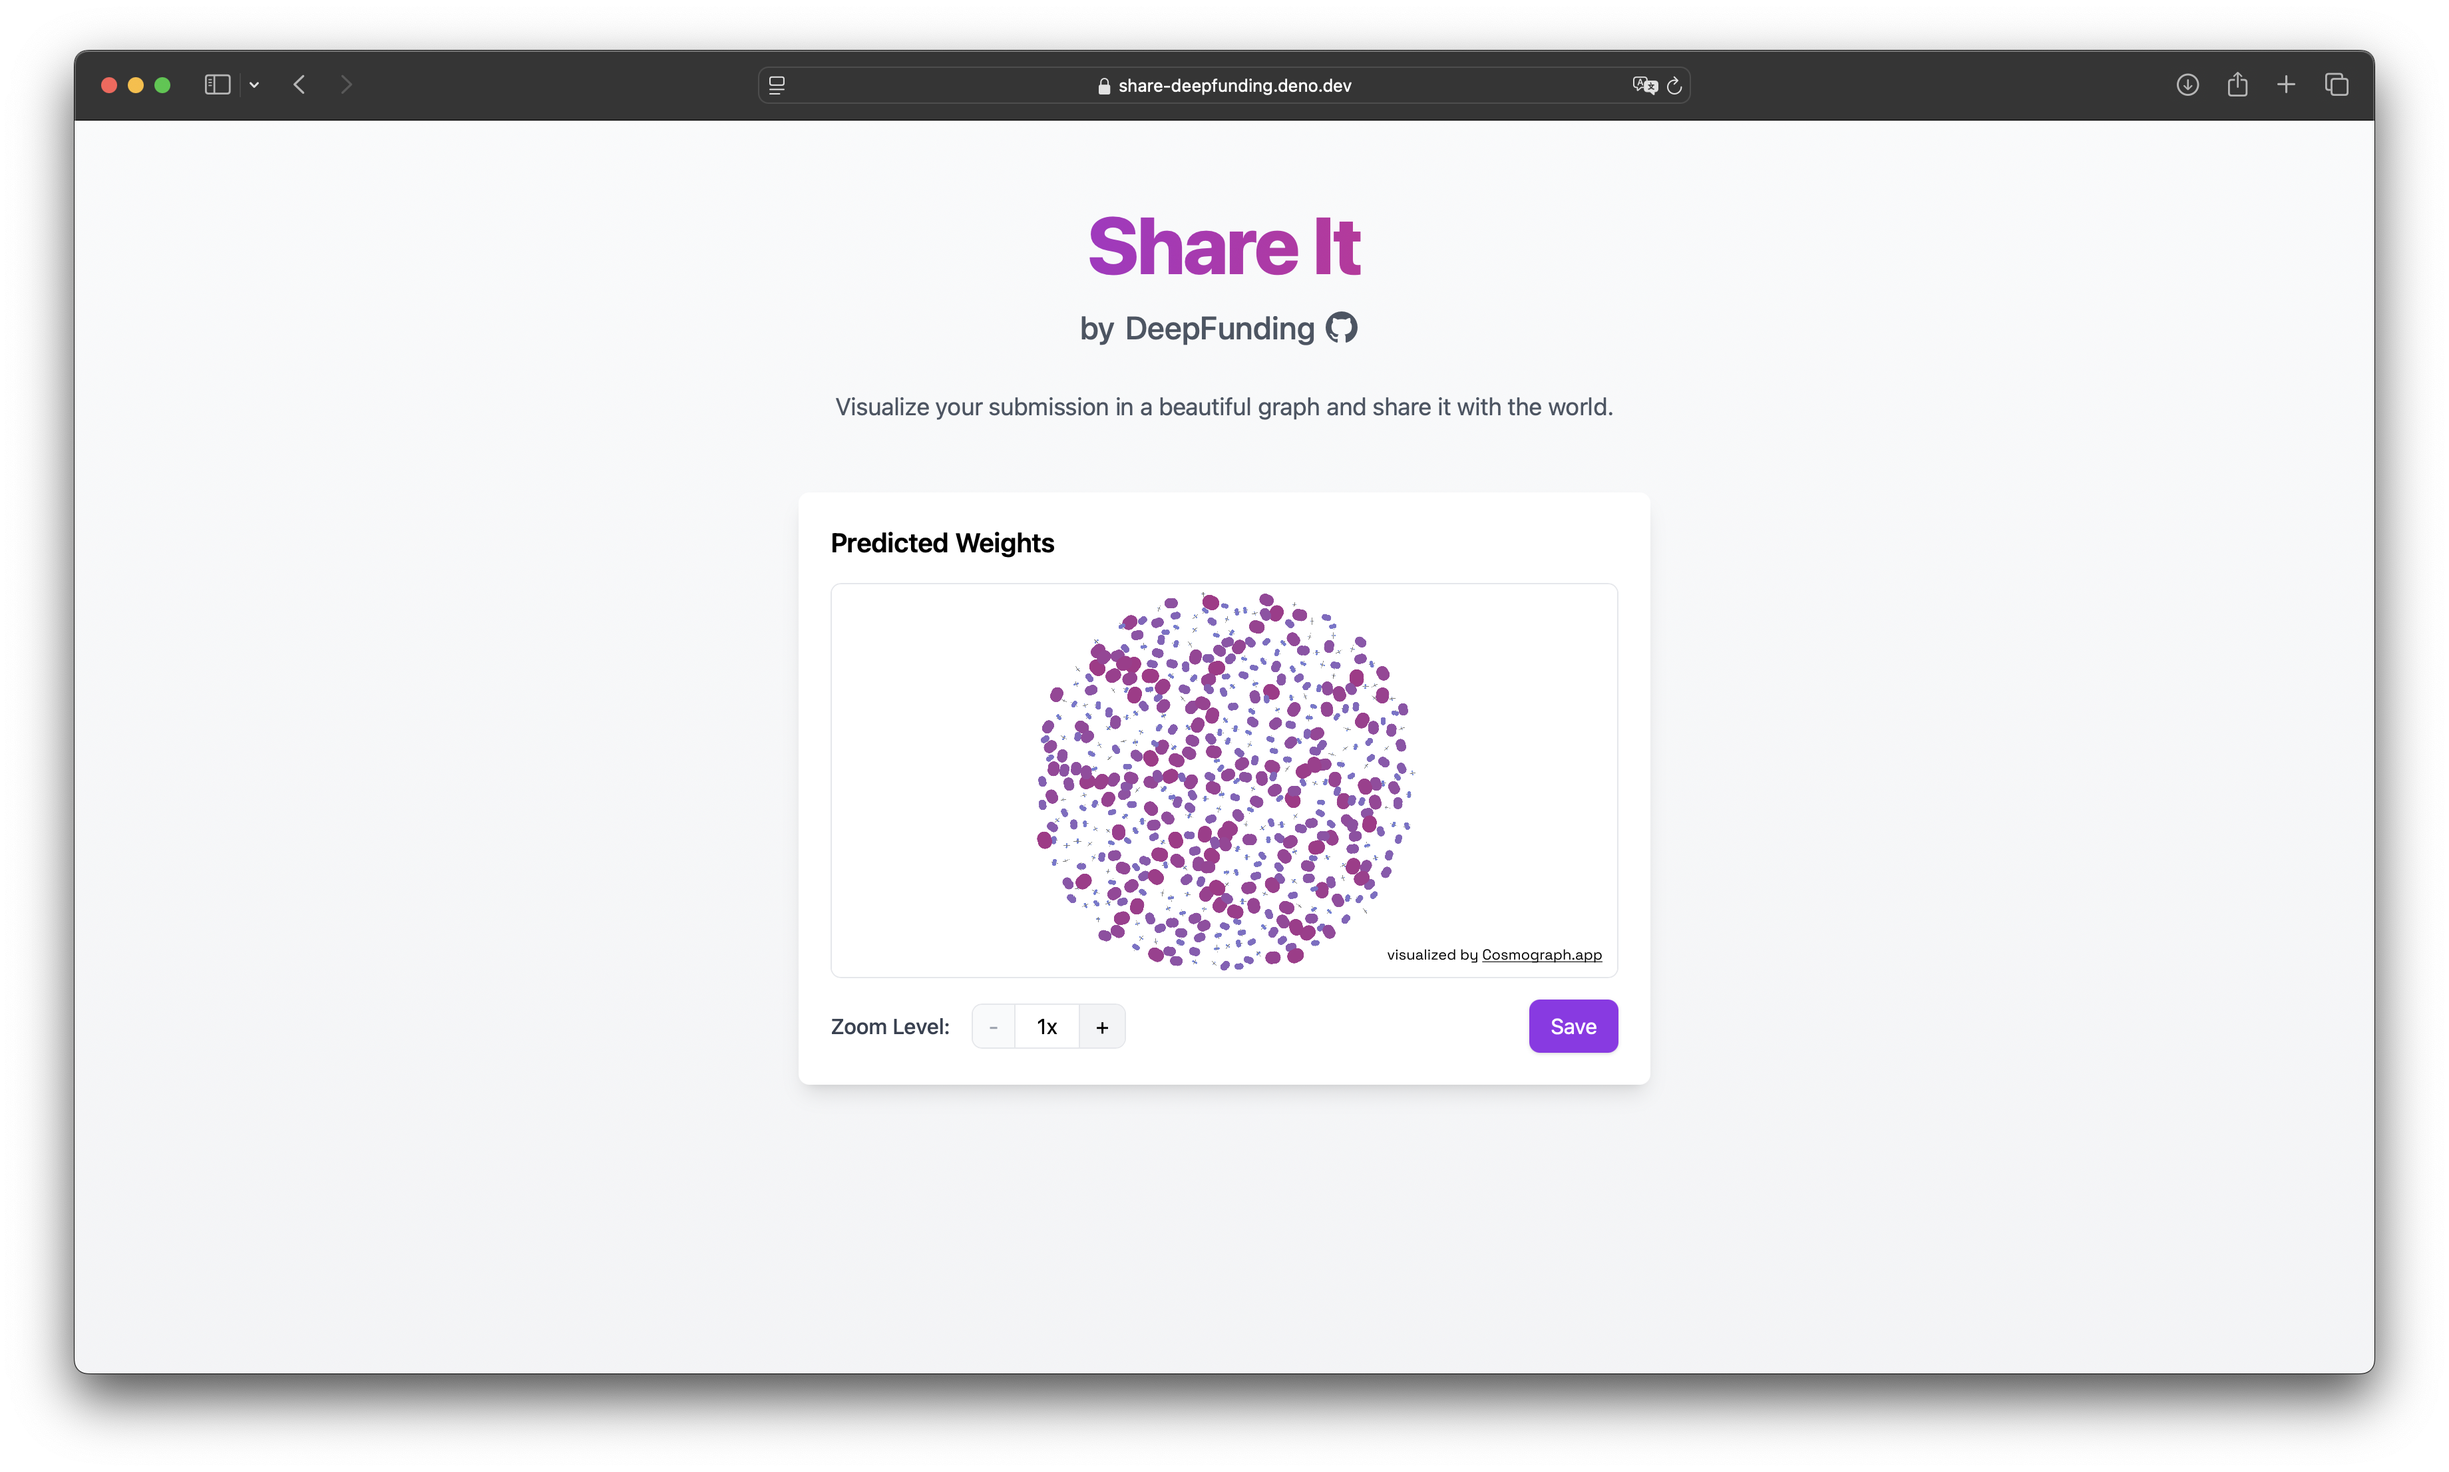
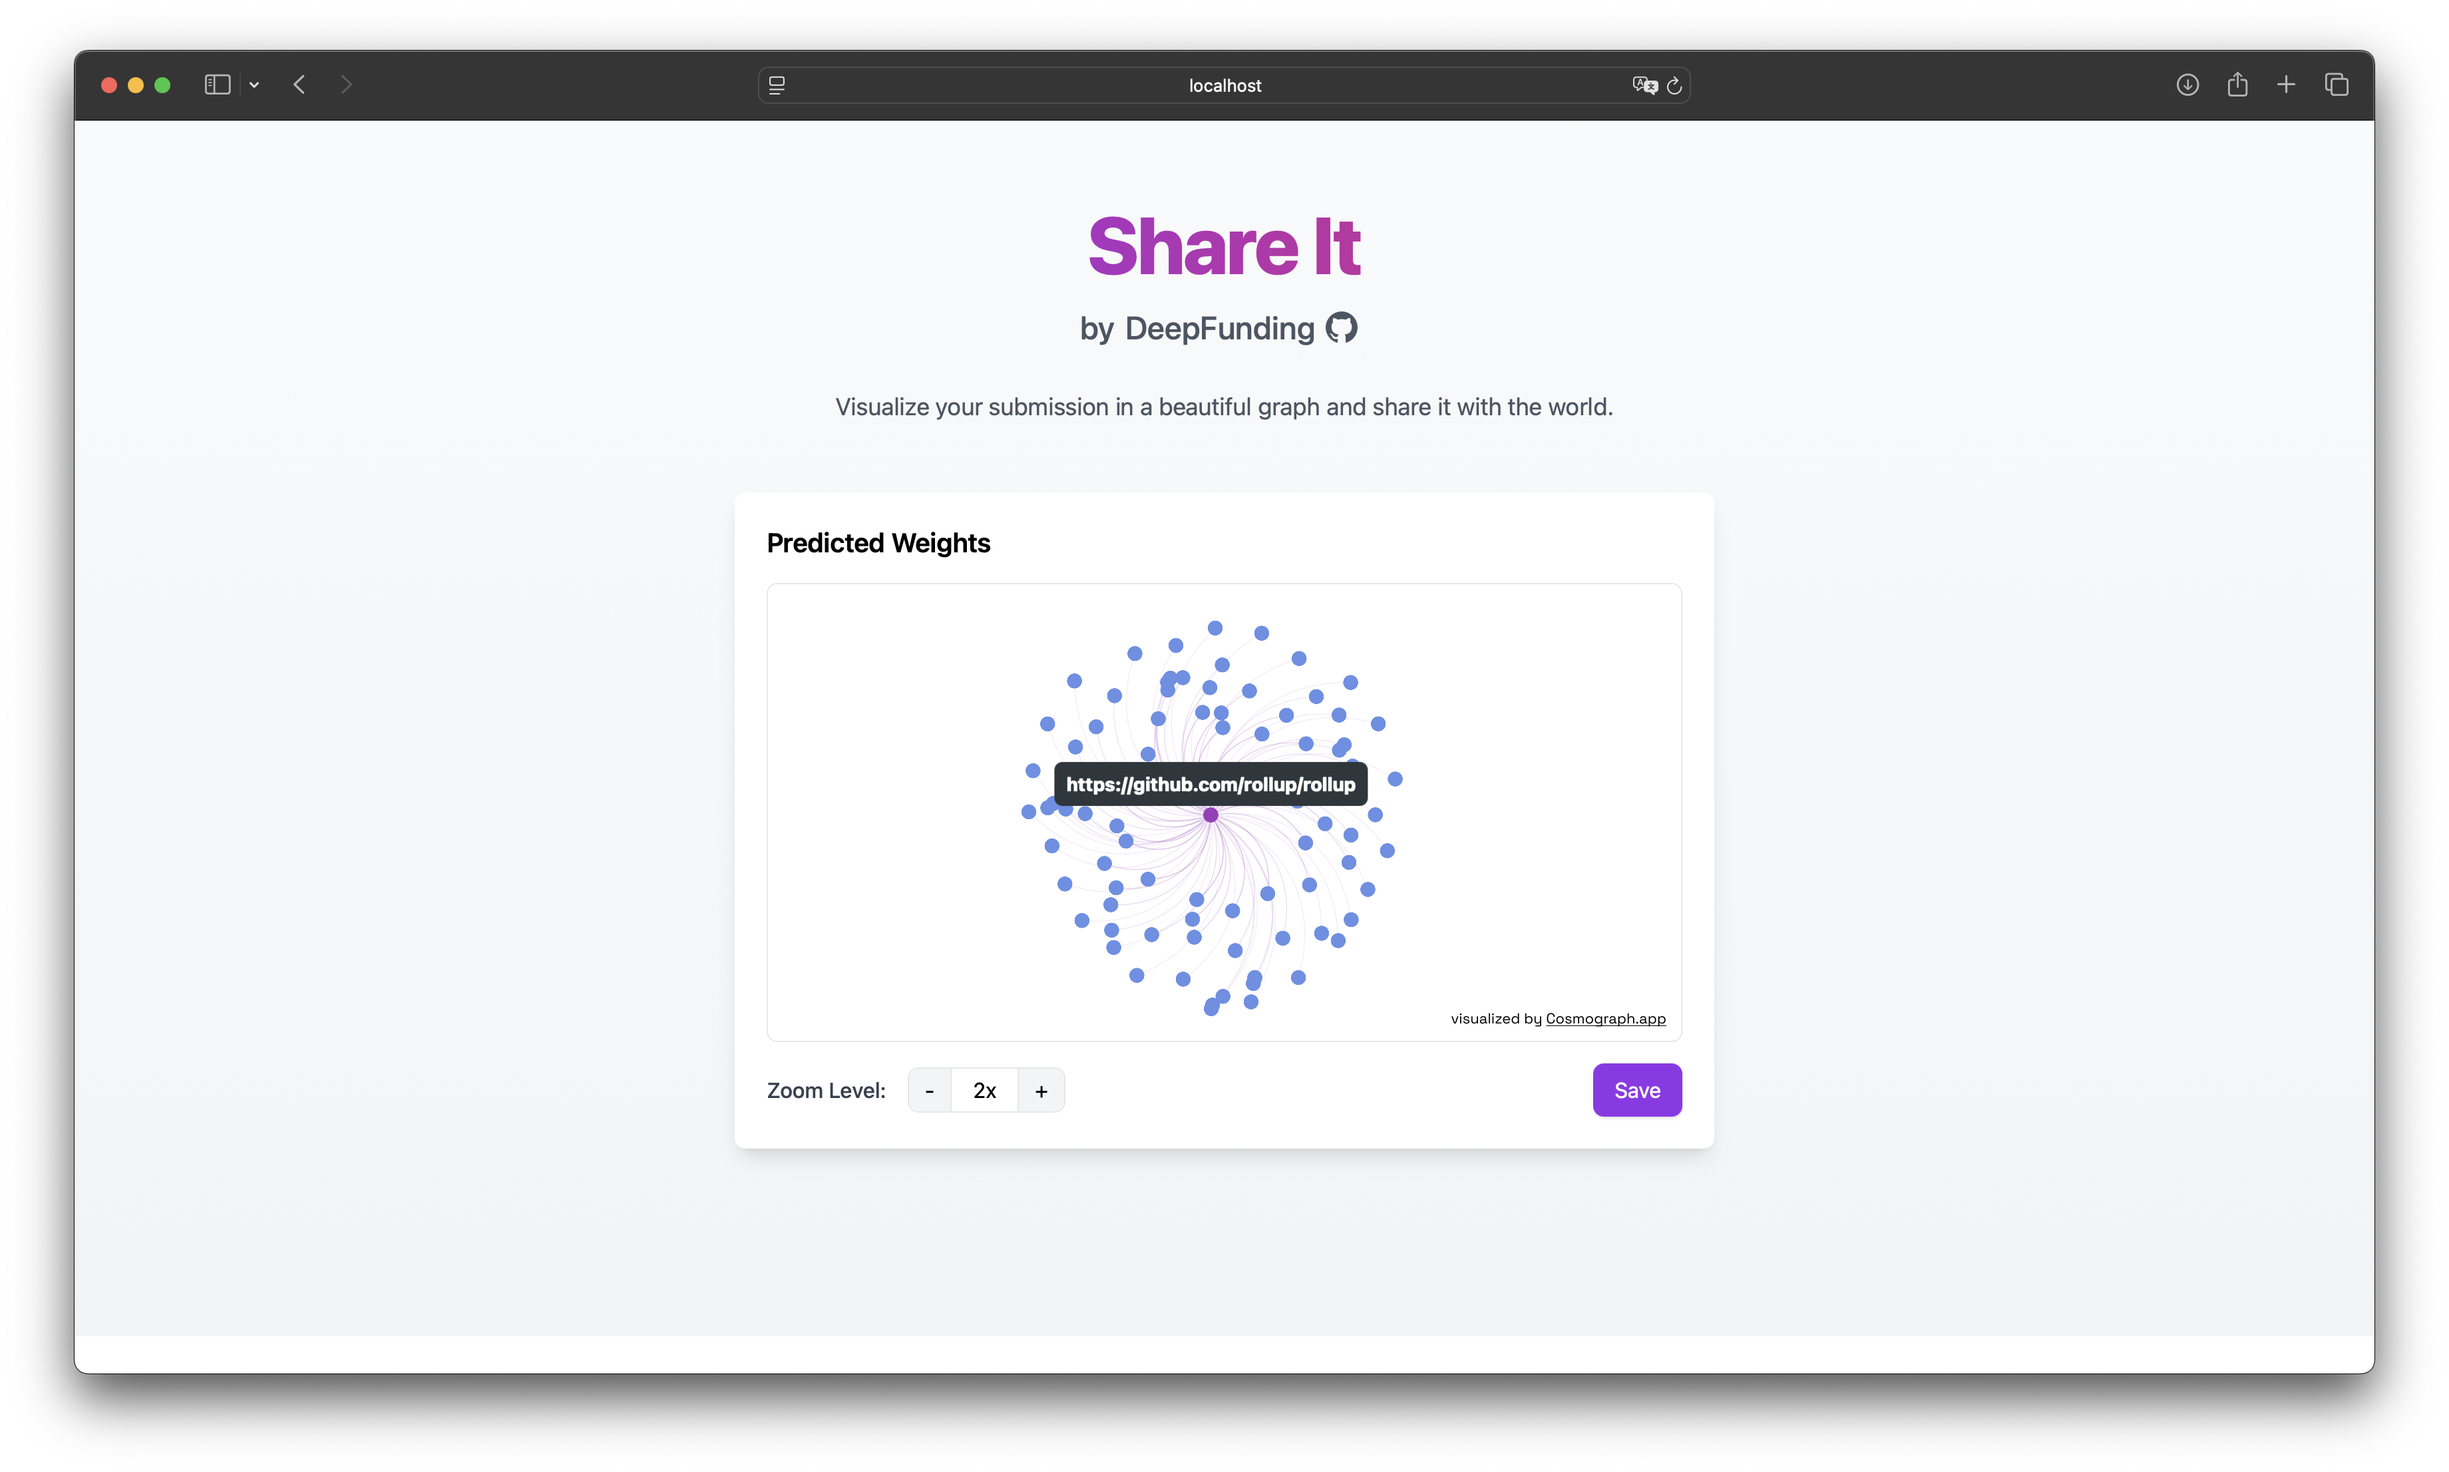
add: new `graph` layout (#2)
* fix: add `new` visualization image

* add: new `simulation` parameters for cosmograph

* add: new `graph` link system with `root` node

diff --git a/islands/Graph.tsx b/islands/Graph.tsx
@@ -1,9 +1,27 @@
-import { Cosmograph } from "@cosmograph/react";
-import { type GraphData } from "~/islands/Home.tsx";
+import { useEffect, useRef } from "preact/hooks";
+import { Cosmograph, type CosmographRef } from "@cosmograph/react";
+import {
+  type GraphData,
+  type Link,
+  type Node,
+  ROOT_NODE,
+  ROOT_NODE_COLOR,
+} from "~/islands/Home.tsx";
 
-const Graph: React.FC<{ data: GraphData; zoom: number }> = ({ data, zoom }) => {
+const Graph: React.FC<{ data: GraphData; zoom: number }> = ({ data }) => {
+  const ref = useRef<CosmographRef<Node, Link>>(null);
+
+  useEffect(() => {
+    if (!ref.current) {
+      return;
+    }
+
+    ref.current.zoomToNode(data.nodes.find(({ id }) => id === ROOT_NODE)!);
+  }, [ref]);
+
   return (
     <Cosmograph
+      ref={ref}
       nodes={data.nodes}
       links={data.links}
       nodeColor={(node) => {
@@ -11,19 +29,27 @@ const Graph: React.FC<{ data: GraphData; zoom: number }> = ({ data, zoom }) => {
         const r = Math.round(100 + (70 * value));
         const g = Math.round(149 - (100 * value));
         const b = Math.round(237 - (100 * value));
-        return `rgb(${r}, ${g}, ${b})`;
+        return node.color ?? `rgb(${r}, ${g}, ${b})`;
       }}
       nodeLabelAccessor={(node) => node.label}
       nodeLabelColor={`rgb(255, 255, 255)`}
       hoveredNodeLabelColor={`rgb(255, 255, 255)`}
       nodeSize={(node) => node.size}
-      linkWidth={(link) => link.value}
-      linkColor={() => `rgb(128, 128, 128)`}
-      initialZoomLevel={zoom}
-      nodeSizeScale={1 + zoom / 10}
+      linkWidth={(link) => link.weight}
+      linkColor={`rgba(${ROOT_NODE_COLOR.join(", ")}, 0.5)`}
       showDynamicLabels={false}
-      useQuadtree={true}
+      useQuadtree
       backgroundColor="rgb(255, 255, 255)"
+      spaceSize={2048}
+      fitViewOnInit
+      simulationRepulsion={0.1}
+      simulationRepulsionTheta={0.1}
+      simulationCenter={0.5}
+      linkArrows={false}
+      simulationGravity={0.01}
+      curvedLinks
+      simulationLinkDistance={3}
+      simulationLinkDistRandomVariationRange={[0.8, 1.5]}
     />
   );
 };

diff --git a/islands/Home.tsx b/islands/Home.tsx
@@ -5,13 +5,14 @@ import FileUpload from "~/islands/FileUpload.tsx";
 import LoadingSpinner from "~/components/LoadingSpinner.tsx";
 import GraphContainer from "~/islands/GraphContainer.tsx";
 
-interface Node {
+export interface Node {
   id: string;
   label: string;
   size: number;
+  color?: string;
 }
 
-interface Link {
+export interface Link {
   source: string;
   target: string;
   weight: number;
@@ -28,6 +29,9 @@ interface FileData {
   data: string[][];
 }
 
+export const ROOT_NODE = "deepfunding_root";
+export const ROOT_NODE_COLOR = [159, 58, 188];
+
 const processUserSubmission = (
   data: string[][],
   sourceData: string[][],
@@ -37,33 +41,43 @@ const processUserSubmission = (
 
   const rows = data[0][0].toLowerCase() === "id" ? data.slice(1) : data;
 
-  rows.forEach(([id, weight]) => {
+  rows.forEach(([id, weight], idx) => {
     const numericWeight = parseFloat(weight);
 
     if (isNaN(numericWeight)) return;
 
     const [, project_a, project_b] = sourceData[parseInt(id) - 1];
+    const childId = `${project_b}_${idx}`;
 
-    const nodeA = `Project A (${id})`;
-    const nodeB = `Project B (${id})`;
+    if (!nodes.has(project_a)) {
+      nodes.set(project_a, {
+        id: project_a,
+        label: project_a,
+        size: numericWeight,
+        color: `rgb(${ROOT_NODE_COLOR.join(", ")})`,
+      });
+    }
 
-    nodes.set(nodeA, {
-      id: nodeA,
-      label: project_a,
-      size: numericWeight * 10,
-    });
+    if (!nodes.has(childId)) {
+      nodes.set(childId, {
+        id: childId,
+        label: project_b,
+        size: numericWeight,
+      });
+    }
 
-    nodes.set(nodeB, {
-      id: nodeB,
-      label: project_b,
-      size: numericWeight * 10,
+    links.push({
+      source: project_a,
+      target: childId,
+      weight: numericWeight * 1,
+      value: numericWeight,
     });
 
     links.push({
-      source: nodeA,
-      target: nodeB,
-      weight: numericWeight * 10,
-      value: numericWeight,
+      source: ROOT_NODE,
+      target: project_a,
+      weight: 1,
+      value: 1,
     });
   });
 
